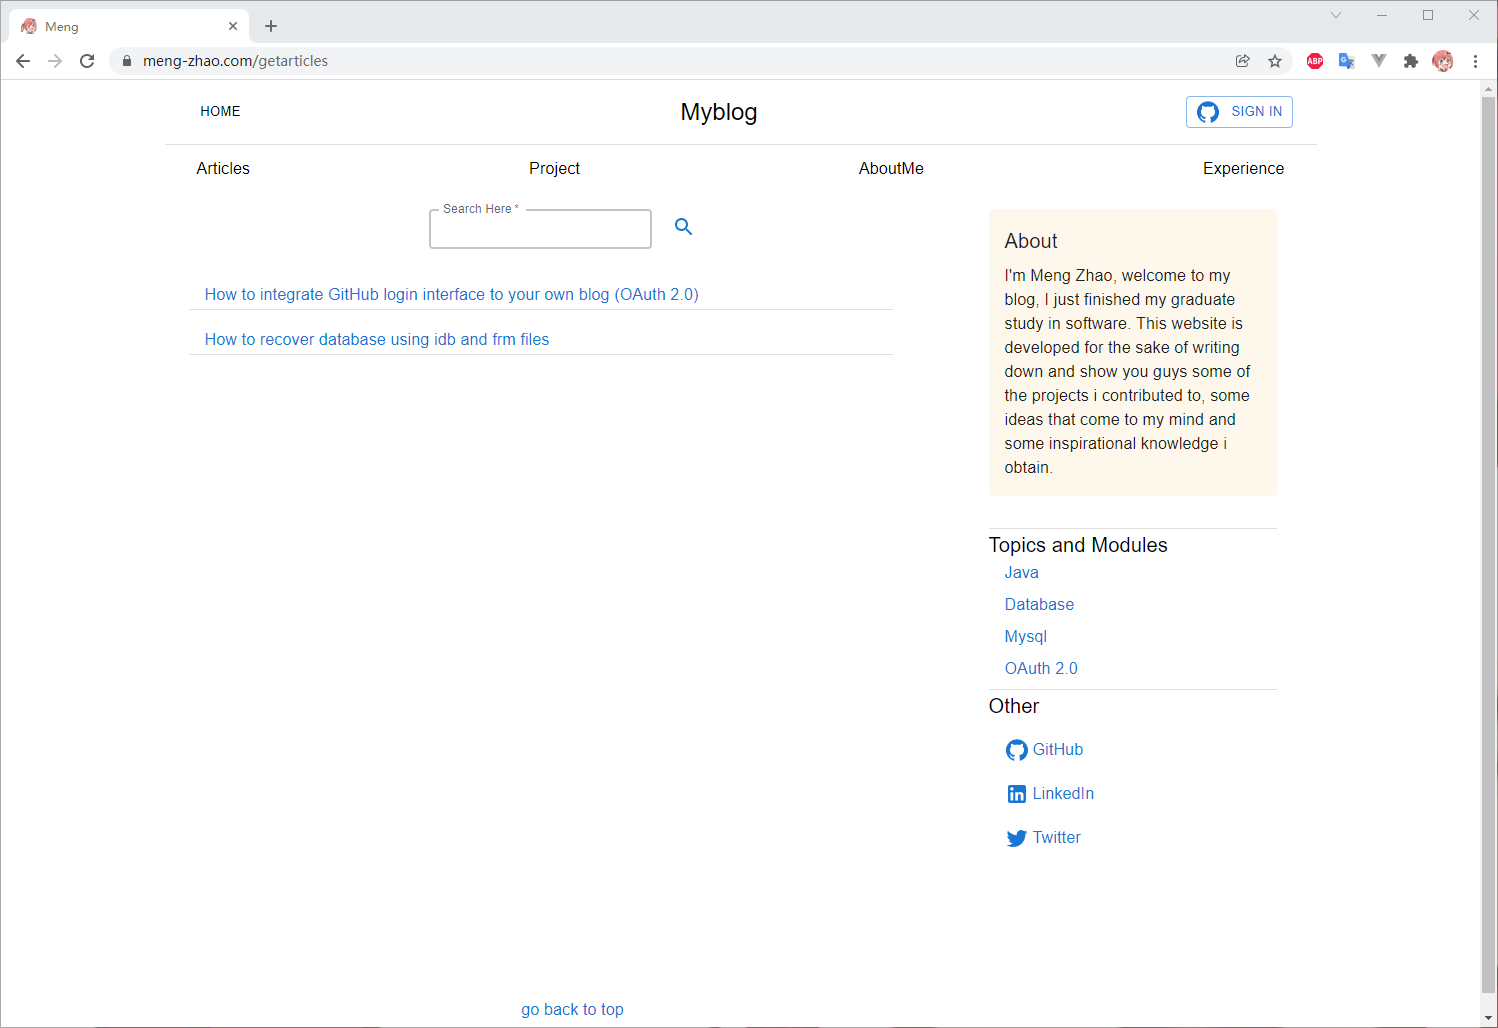
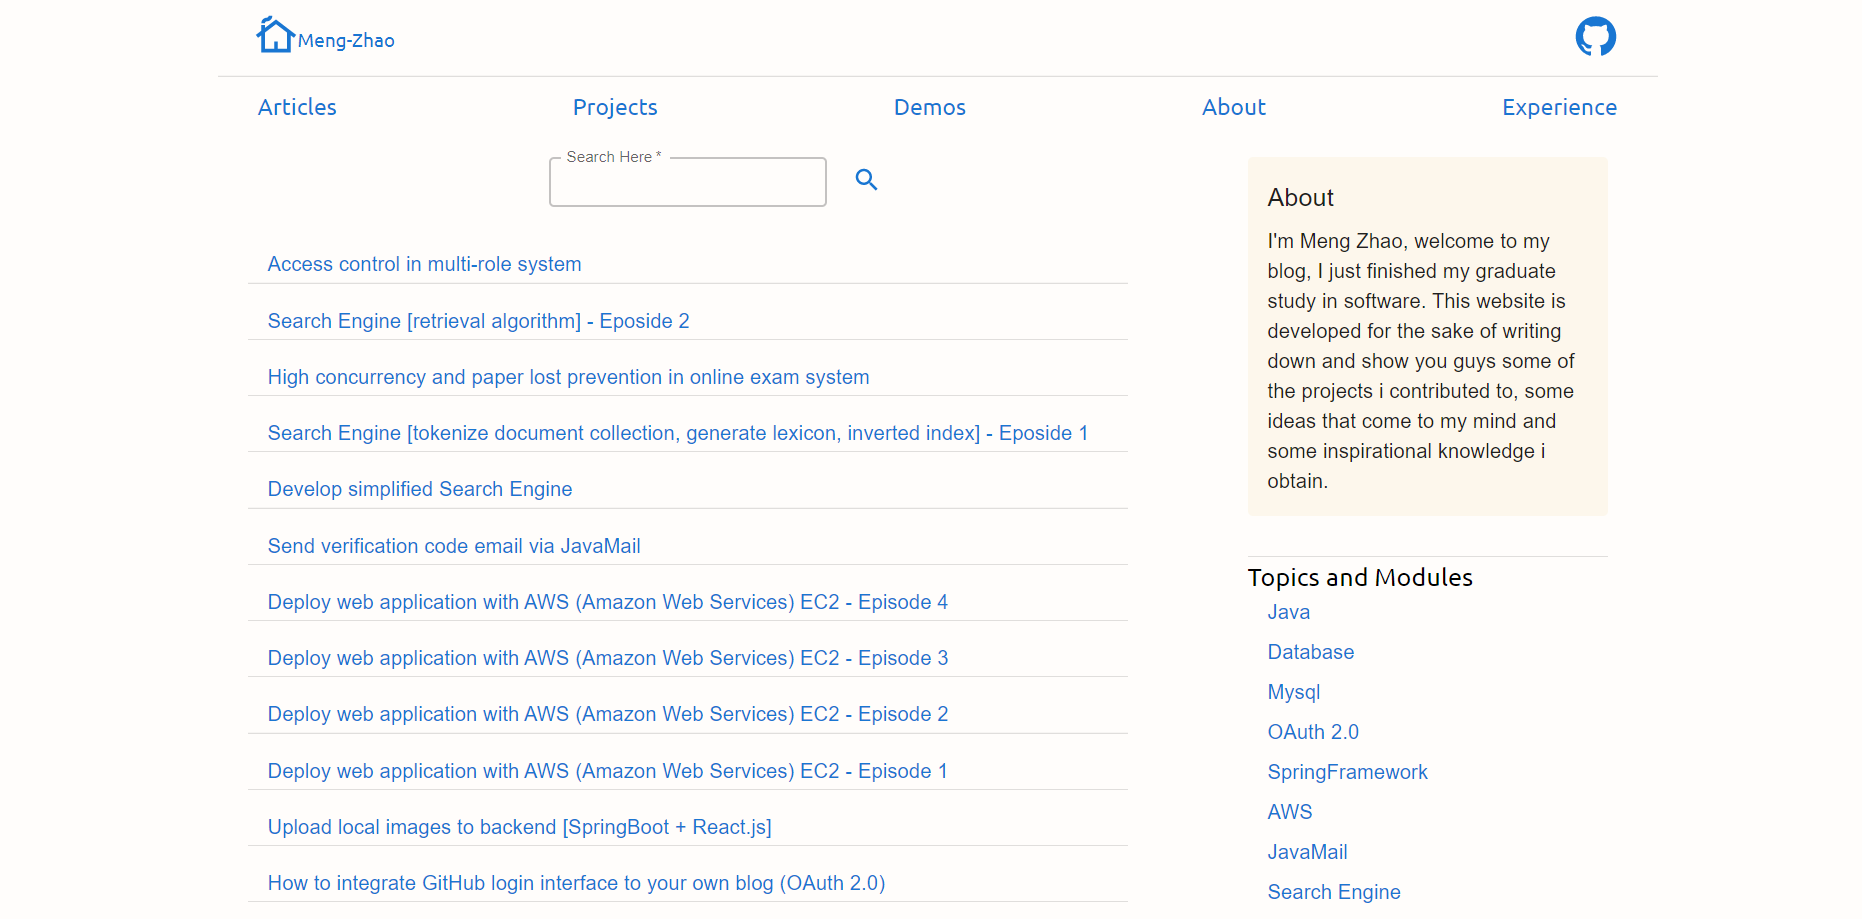
rdme updated

diff --git a/README.md b/README.md
@@ -34,13 +34,19 @@ npm start
 ## Examples
 
 ### 1. This is the homepage
-![homepage](./img/homepage.png)
+![homepage](./img/home.png)
 
 ### 2. This is the article list
 ![articles](./img/articles.png)
 
-### 3. This is one of the project page
-![module](./img/projects.png)
+### 3. This is demo page
+![demo](./img/demos.png)
+
+### 4. This page shows comments
+![comment](./img/comment.png)
+
+### 4. This is aboutme page
+![about](./img/aboutme.png)
 
 
 ### More pages will be found when you run this application
@@ -49,3 +55,6 @@ npm start
 * This blog is still under development, most of the basic functions have been implemented.
 
 * Some features is being developed now, like commenting, sending email, and direct messages within the blog.
+
+## Updated -- 2/3/2022
+Comment, message notification, and sending emails have been implemented, visitors can log in this blog to post comments.
